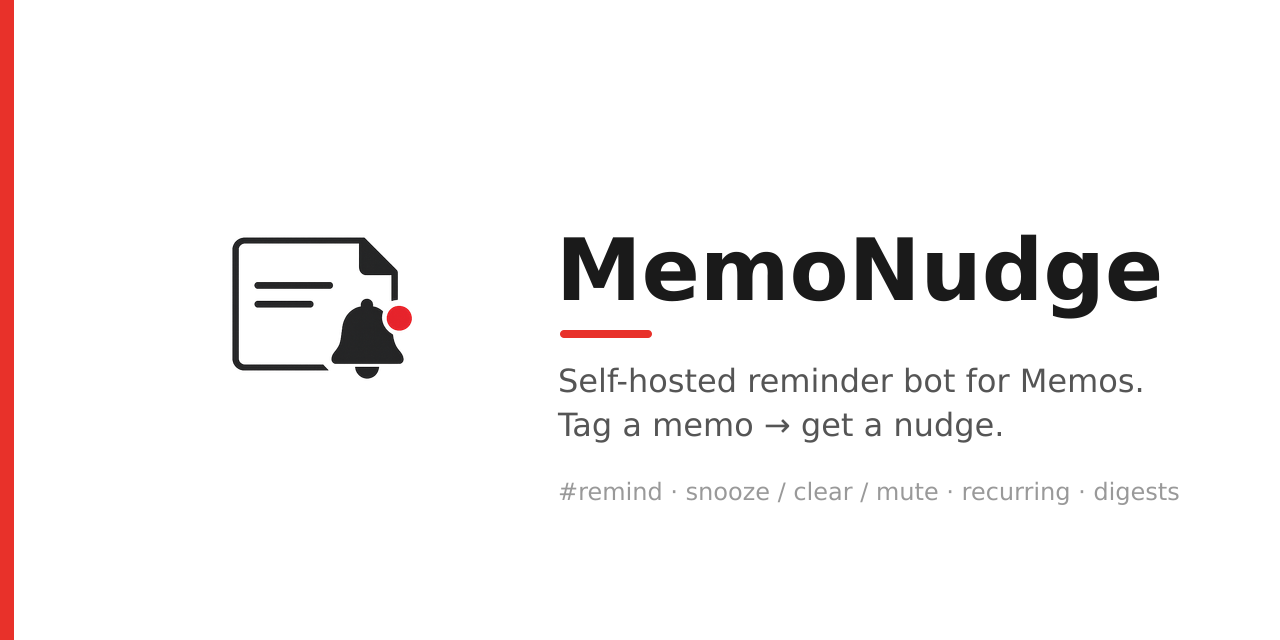
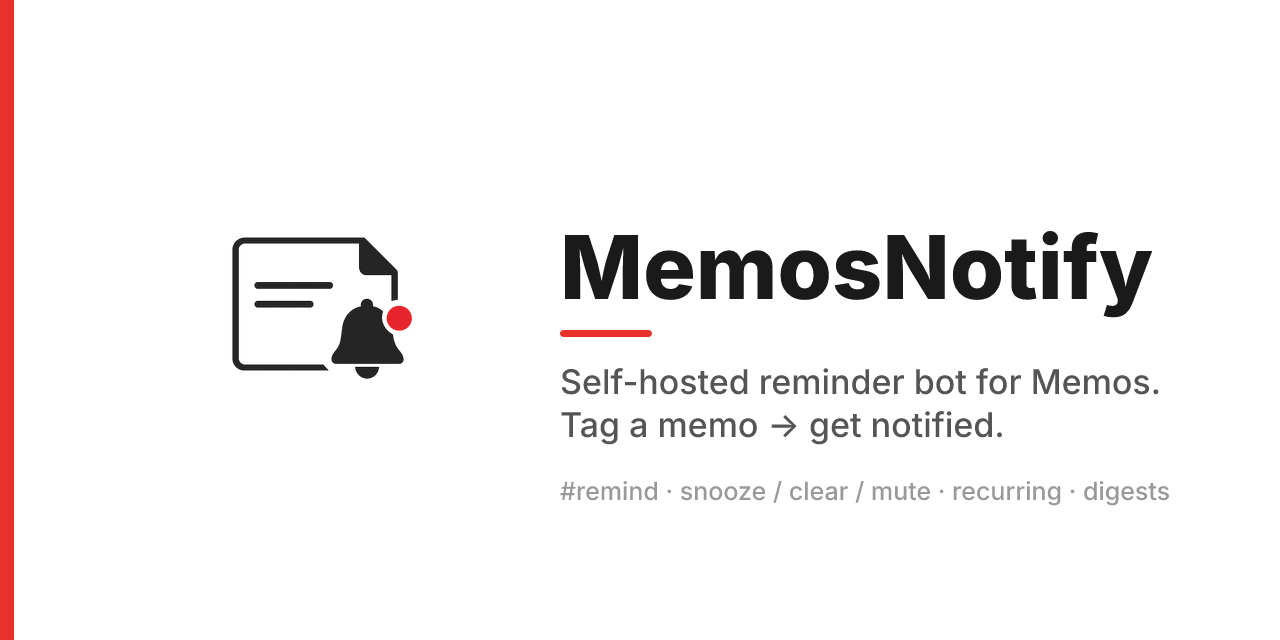
refactor: rename project from MemoNudge to MemosNotify
Rename across code, config, docs, and the social preview asset:
env var prefix MEMONUDGE_CONFIG -> MEMOSNOTIFY_CONFIG, the Docker
service/container/volume/image, the DB path, package name, and all
prose references. Update the social-preview wordmark and tagline.

Changed region(s): [[0.4375, 0.3438, 0.9062, 0.5], [0.4375, 0.5625, 0.9062, 0.6875], [0.4375, 0.75, 0.9375, 0.7812]]

diff --git a/src/index.ts b/src/index.ts
@@ -94,7 +94,7 @@ async function main(): Promise<void> {
     },
   });
   const server = startServer(app, config.server.port);
-  console.log(`memonudge: listening on :${config.server.port}`);
+  console.log(`memosnotify: listening on :${config.server.port}`);
 
   const scheduler = startScheduler(config, storage, notifier);
 
@@ -102,7 +102,7 @@ async function main(): Promise<void> {
   const shutdown = (signal: string): void => {
     if (shuttingDown) return;
     shuttingDown = true;
-    console.log(`memonudge: received ${signal}, shutting down…`);
+    console.log(`memosnotify: received ${signal}, shutting down…`);
     scheduler.stop();
     void notifier.stop();
     server.close(() => process.exit(0));

diff --git a/src/config/load.ts b/src/config/load.ts
@@ -33,7 +33,7 @@ function interpolateEnv(raw: string): string {
 }
 
 /** Read config.yaml|json, interpolate env, validate with Zod, fail fast with a readable error. */
-export function loadConfig(path = process.env.MEMONUDGE_CONFIG ?? "config.yaml"): Config {
+export function loadConfig(path = process.env.MEMOSNOTIFY_CONFIG ?? "config.yaml"): Config {
   const abs = resolve(path);
   const raw = interpolateEnv(readFileSync(abs, "utf8"));
   const ext = extname(abs).toLowerCase();

diff --git a/src/notifiers/telegram.ts b/src/notifiers/telegram.ts
@@ -110,7 +110,7 @@ export class TelegramNotifier implements InteractiveNotifier {
     });
 
     this.bot.command("test", async (ctx) => {
-      await ctx.reply(`✅ MemoNudge connected.\nThis chat id is: ${ctx.chat.id}`);
+      await ctx.reply(`✅ MemosNotify connected.\nThis chat id is: ${ctx.chat.id}`);
       // Fire a sample reminder so the user sees a real nudge + its buttons.
       const sample = this.sampleView?.();
       if (sample) {

diff --git a/README.md b/README.md
@@ -1,8 +1,8 @@
 <p align="center">
-  <img src="assets/icon-256.png" width="128" alt="MemoNudge logo">
+  <img src="assets/icon-256.png" width="128" alt="MemosNotify logo">
 </p>
 
-<h1 align="center">MemoNudge</h1>
+<h1 align="center">MemosNotify</h1>
 
 > Self-hosted reminder bot for [Memos](https://usememos.com). Tag a memo and get a
 > reminder with one-tap **snooze / clear / mute** actions, plus recurring reminders and
@@ -15,9 +15,9 @@
 ## Why
 
 You jot something into Memos (_"renew passport #remind(3w)"_) and forget about it.
-MemoNudge watches for created memos, schedules a reminder, and delivers it to Telegram
+MemosNotify watches for created memos, schedules a reminder, and delivers it to Telegram
 with buttons to snooze, clear, ignore, or complete it. No public ingress required:
-Telegram runs over long polling (outbound only) and the Memos → MemoNudge webhook hop
+Telegram runs over long polling (outbound only) and the Memos → MemosNotify webhook hop
 stays on your internal Docker network.
 
 ## Features
@@ -56,9 +56,9 @@ Core owns all the semantics (scheduling, recurrence, action execution). Notifier
 
 ## Quick start (Docker Compose)
 
-MemoNudge runs as a single container alongside your **existing** Memos instance. It talks
+MemosNotify runs as a single container alongside your **existing** Memos instance. It talks
 to Memos two ways: it calls the Memos API (`memos.baseUrl`, for complete/archive and deep
-links), and Memos calls MemoNudge's webhook. The only requirement is that the two can
+links), and Memos calls MemosNotify's webhook. The only requirement is that the two can
 reach each other on the network.
 
 1. **Get a Telegram bot token** from [@BotFather](https://t.me/BotFather) and your chat id
@@ -83,30 +83,30 @@ reach each other on the network.
    ```
 
 5. **Point Memos at the webhook.** In Memos → _Settings → Webhooks_, add a URL that reaches
-   the MemoNudge container, ending in `/memos-webhook`, e.g.
+   the MemosNotify container, ending in `/memos-webhook`, e.g.
    `http://<host-ip>:3000/memos-webhook`. The [`docker-compose.yml`](./docker-compose.yml)
    documents the two reachability options (publish the port, or join your Memos' Docker
    network) inline.
 
    > **Memos ≥ 0.26.2** blocks webhook URLs that resolve to a private/reserved IP
    > (SSRF protection), and a host/internal address is one. Run your Memos (**≥ v0.27.0**)
-   > with `MEMOS_ALLOW_PRIVATE_WEBHOOKS=true`, or expose MemoNudge through a public tunnel
+   > with `MEMOS_ALLOW_PRIVATE_WEBHOOKS=true`, or expose MemosNotify through a public tunnel
    > and use that URL instead.
 
 6. **Verify** by messaging your bot `/test`; it replies with the chat id it sees. Then
    create a memo containing `#remind(1m)` and wait a minute.
 
-> The compose file pulls `ghcr.io/diegoarff/memonudge:latest`. To build from local source
-> instead, uncomment `build: .` under the `memonudge` service.
+> The compose file pulls `ghcr.io/diegoarff/memosnotify:latest`. To build from local source
+> instead, uncomment `build: .` under the `memosnotify` service.
 
 ### Deploy on Coolify
 
-MemoNudge loads its settings from a `config.yaml` **file**, but the secrets inside it come
+MemosNotify loads its settings from a `config.yaml` **file**, but the secrets inside it come
 from the environment (`${VAR}` interpolation). On [Coolify](https://coolify.io) you provide
 those two halves separately.
 
 1. **New Resource → Docker Image**, pointing at the published image
-   (`ghcr.io/diegoarff/memonudge:latest`).
+   (`ghcr.io/diegoarff/memosnotify:latest`).
 
 2. **Environment Variables:** add the secrets the config references:
 
@@ -140,7 +140,7 @@ those two halves separately.
      token: ${MEMOS_TOKEN}
    storage:
      driver: sqlite
-     url: file:/app/data/memonudge.db
+     url: file:/app/data/memosnotify.db
    ```
 
    Edit it in the UI and redeploy to change config. (Prefer file-based secrets? Coolify can
@@ -152,10 +152,10 @@ those two halves separately.
    container).
 
 5. **Keep the webhook internal.** The `/memos-webhook` endpoint is **unauthenticated**, so
-   don't give MemoNudge a public domain or expose port `3000`. Put it on the **same network
+   don't give MemosNotify a public domain or expose port `3000`. Put it on the **same network
    as your Memos** (same Coolify project, or attach to Memos' network) so they resolve each
    other by name, then in Memos → _Settings → Webhooks_ add
-   `http://memonudge:3000/memos-webhook` and set `MEMOS_ALLOW_PRIVATE_WEBHOOKS=true` on the
+   `http://memosnotify:3000/memos-webhook` and set `MEMOS_ALLOW_PRIVATE_WEBHOOKS=true` on the
    Memos service (≥ v0.27.0).
 
    > If your Memos lives on a **different** host, the webhook can't stay purely internal.
@@ -167,7 +167,7 @@ those two halves separately.
 ## Configuration
 
 A single `config.yaml` (the loader also accepts `.json`, chosen by file extension).
-Override the path with `MEMONUDGE_CONFIG`. Secrets are interpolated from the environment
+Override the path with `MEMOSNOTIFY_CONFIG`. Secrets are interpolated from the environment
 as `${VAR}` **before** validation; `${VAR}` also resolves from a file when `VAR_FILE` is
 set (the autobrr `_FILE` convention).
 
@@ -259,7 +259,7 @@ Template variables: `{reminderId}`, `{memoId}`, `{memoUid}`, `{memoName}`.
   creator id for shared instances).
 - `memos`: `baseUrl` + `token`; required for archive/complete and deep links.
 - `storage`: `driver` (`sqlite`) and `url` (a libSQL url such as
-  `file:/app/data/memonudge.db`).
+  `file:/app/data/memosnotify.db`).
 - `server.port`: webhook listen port (default `3000`).
 
 ---

diff --git a/CONTRIBUTING.md b/CONTRIBUTING.md
@@ -1,6 +1,6 @@
-# Contributing to MemoNudge
+# Contributing to MemosNotify
 
-Thanks for your interest! MemoNudge is a small, focused codebase — contributions that keep
+Thanks for your interest! MemosNotify is a small, focused codebase — contributions that keep
 it that way are very welcome.
 
 ## Setup
